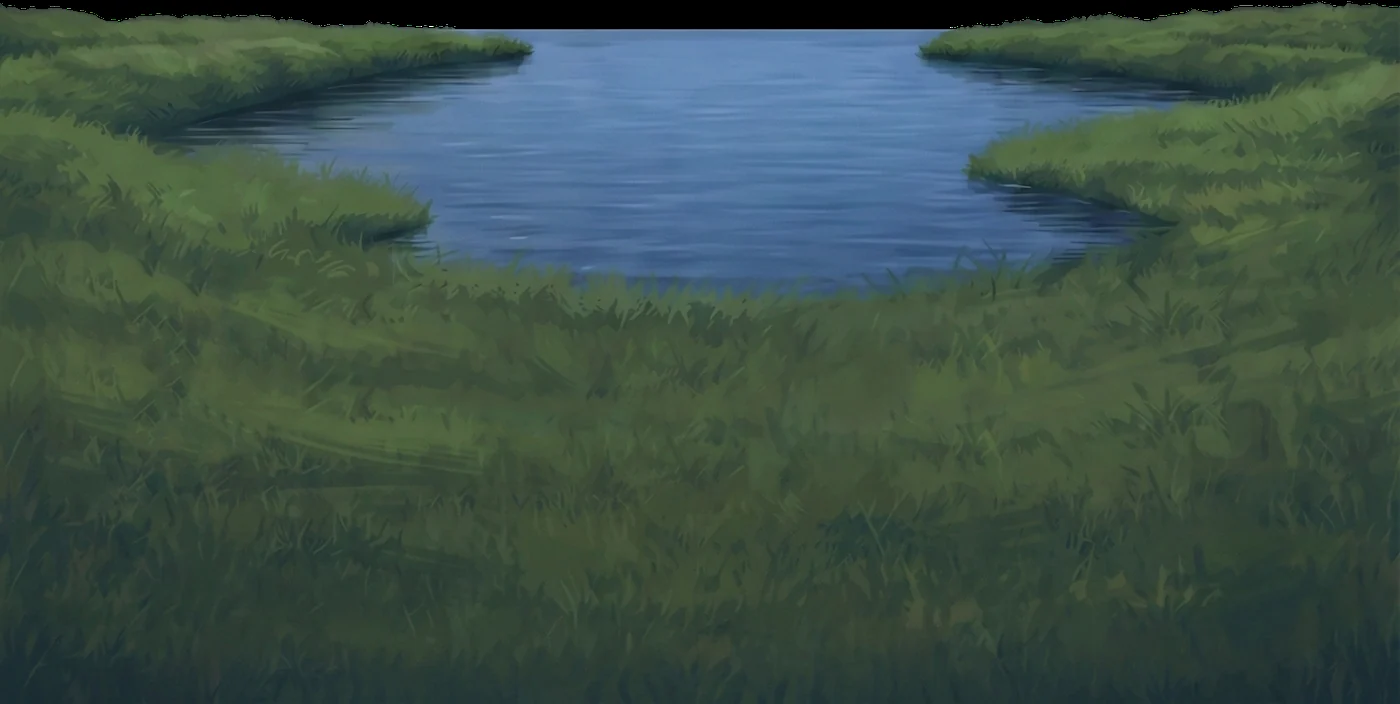
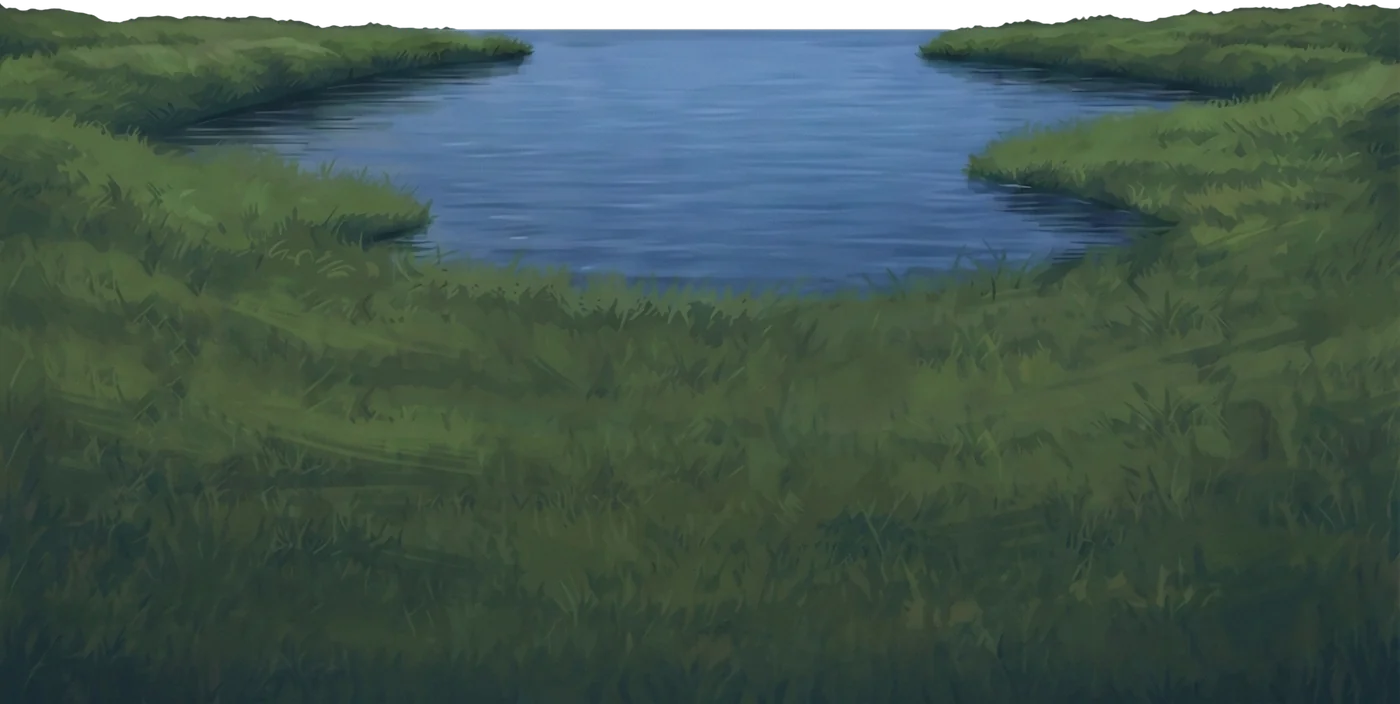
Simplify the sky hero and fix the moon's course
Drop the dotted sun path and draw the sun as a plain gradient disc again,
keep the Terrain artwork's own transparency instead of a black band, and
grade it with a multiply tint rather than a foggy overlay. The moon now
takes its horizontal position from the rise and set that bracket the
moment, so it crosses the sky instead of only rising and falling.

Generated by Mistral Vibe.

Changed region(s): [[0.0, 0.0, 1.0, 0.0625]]

diff --git a/asuninyourpocket/index.html b/asuninyourpocket/index.html
@@ -21,7 +21,6 @@
 <link href="../favicon.ico" rel="shortcut icon"/>
 <meta content="https://www.mirloapps.es/asuninyourpocket/sun.webp" property="og:image"/>
 <meta content="https://www.mirloapps.es/asuninyourpocket/sun.webp" name="twitter:image"/>
-<link rel="preload" as="image" href="sun-real.webp">
 <link rel="preload" as="image" href="moon-real.webp">
 <link rel="preload" as="image" href="terrain.webp">
 <link rel="preconnect" href="https://fonts.googleapis.com">
@@ -1637,7 +1636,6 @@
                 return list;
             }
 
-            var sunImage = new Image();
             var moonImage = new Image();
             var terrainImage = new Image();
             var imagesReady = false;
@@ -1702,7 +1700,7 @@
             }
 
             function loadBodies(repaint) {
-                var pending = 3;
+                var pending = 2;
                 function ready() {
                     pending -= 1;
                     if (pending === 0) {
@@ -1710,19 +1708,50 @@
                         repaint();
                     }
                 }
-                sunImage.onload = ready;
-                sunImage.onerror = ready;
                 moonImage.onload = ready;
                 moonImage.onerror = ready;
                 terrainImage.onload = ready;
                 terrainImage.onerror = ready;
-                sunImage.src = 'sun-real.webp';
                 moonImage.src = 'moon-real.webp';
                 terrainImage.src = 'terrain.webp';
             }
 
             function azimuthX(az, w) {
                 return w * (1 - (((az + 180) % 360) / 360));
+            }
+
+            var moonArcCache = {};
+
+            function moonArc(date, lat, lon) {
+                var key = [lat.toFixed(2), lon.toFixed(2), date.getFullYear(), date.getMonth(), date.getDate()].join(',');
+                if (moonArcCache[key]) return moonArcCache[key];
+
+                var step = 10 * 60000;
+                var ridge = -0.3;
+                var rise = null;
+                var set = null;
+                var now = new Date(date.getTime()).getTime();
+                var alt = moonPosition(new Date(now), lat, lon).alt;
+
+                var previous = alt;
+                for (var back = 1; back <= 180 && rise === null; back++) {
+                    var earlier = moonPosition(new Date(now - back * step), lat, lon).alt;
+                    if (earlier < ridge && previous >= ridge) rise = new Date(now - back * step);
+                    previous = earlier;
+                }
+
+                previous = alt;
+                for (var ahead = 1; ahead <= 180 && set === null; ahead++) {
+                    var later = moonPosition(new Date(now + ahead * step), lat, lon).alt;
+                    if (previous >= ridge && later < ridge) set = new Date(now + ahead * step);
+                    previous = later;
+                }
+
+                if (rise && !set) set = new Date(rise.getTime() + 12.4 * 3600000);
+                if (!rise && set) rise = new Date(set.getTime() - 12.4 * 3600000);
+
+                moonArcCache[key] = { rise: rise, set: set };
+                return moonArcCache[key];
             }
 
             function pathX(date, rise, set, w, az, spread) {
@@ -1785,38 +1814,31 @@
                     );
 
                     var height = h - topY;
-                    var night = Math.max(0, Math.min(1, (2.5 - sun.alt) / 10));
-                    var day = Math.max(0, Math.min(1, (sun.alt + 2) / 12));
+                    var shade = Math.max(0, Math.min(1, (8 - sun.alt) / 16));
+                    var grade = mix([252, 247, 238], [24, 32, 56], shade);
                     var warm = Math.max(0, Math.min(1, 1 - Math.abs(sun.alt - 0.5) / 8));
 
-                    g.globalCompositeOperation = 'source-atop';
-
-                    var washAlpha = (0.34 + 0.3 * (1 - day)).toFixed(3);
-                    var wash = g.createLinearGradient(0, topY, 0, h);
-                    wash.addColorStop(0, rgb(colors.top, washAlpha));
-                    wash.addColorStop(1, rgb(colors.bottom, washAlpha));
-                    g.fillStyle = wash;
-                    g.fillRect(0, topY, w, height);
-
-                    g.fillStyle = 'rgba(4, 8, 18, ' + (0.34 * night).toFixed(3) + ')';
+                    g.globalCompositeOperation = 'multiply';
+                    g.fillStyle = rgb(grade);
                     g.fillRect(0, topY, w, height);
 
                     if (warm > 0.01) {
-                        var lit = g.createLinearGradient(0, topY, 0, topY + height * 0.7);
-                        lit.addColorStop(0, 'rgba(255, 172, 108, ' + (0.3 * warm).toFixed(3) + ')');
-                        lit.addColorStop(1, 'rgba(255, 172, 108, 0)');
+                        g.globalCompositeOperation = 'source-atop';
+                        var lit = g.createLinearGradient(0, topY, 0, topY + height * 0.45);
+                        lit.addColorStop(0, 'rgba(255, 176, 116, ' + (0.16 * warm).toFixed(3) + ')');
+                        lit.addColorStop(1, 'rgba(255, 176, 116, 0)');
                         g.fillStyle = lit;
                         g.fillRect(0, topY, w, height);
                     }
 
-                    var fade = Math.max(10, height * 0.34);
-                    g.globalCompositeOperation = 'destination-out';
-                    var feather = g.createLinearGradient(0, topY, 0, topY + fade);
-                    feather.addColorStop(0, 'rgba(0, 0, 0, 0.6)');
-                    feather.addColorStop(0.45, 'rgba(0, 0, 0, 0.12)');
-                    feather.addColorStop(1, 'rgba(0, 0, 0, 0)');
-                    g.fillStyle = feather;
-                    g.fillRect(0, topY, w, fade);
+                    g.globalCompositeOperation = 'destination-in';
+                    g.drawImage(
+                        terrainImage,
+                        (w - terrainImage.naturalWidth * scale) / 2,
+                        topY,
+                        terrainImage.naturalWidth * scale,
+                        terrainImage.naturalHeight * scale
+                    );
 
                     g.globalCompositeOperation = 'source-over';
                     groundCache.key = key;
@@ -1895,31 +1917,10 @@
                     }
                 }
 
-                if (events && events.sunrise && events.sunset && sun.alt > -10) {
-                    var span = events.sunset.getTime() - events.sunrise.getTime();
-                    ctx.beginPath();
-                    for (var m = 0; m <= 96; m++) {
-                        var t = new Date(events.sunrise.getTime() + (span * m) / 96);
-                        var state = sunPosition(t, spot.lat, spot.lon);
-                        var px = pathX(t, events.sunrise, events.sunset, w, state.az, spread);
-                        var py = altitudeY(state.alt, h, horizonY);
-                        if (m === 0) {
-                            ctx.moveTo(px, py);
-                        } else {
-                            ctx.lineTo(px, py);
-                        }
-                    }
-                    ctx.strokeStyle = 'rgba(255,255,255,' + (0.06 + 0.18 * Math.max(0, Math.min(1, (sun.alt + 10) / 18))).toFixed(3) + ')';
-                    ctx.lineWidth = 1;
-                    ctx.setLineDash([2, 6]);
-                    ctx.stroke();
-                    ctx.setLineDash([]);
-                }
-
                 if (sun.alt > -8) {
                     var sunY = altitudeY(sun.alt, h, horizonY);
-                    var radius = Math.min(w, h) * 0.028;
-                    var glowRadius = radius * (sun.alt > 8 ? 3.6 : 5.2);
+                    var radius = Math.min(w, h) * (0.024 + 0.006 * Math.max(0, Math.min(1, (sun.alt + 4) / 12)));
+                    var glowRadius = radius * (sun.alt > 8 ? 4.6 : 6.4);
                     var glow = ctx.createRadialGradient(sunX, sunY, radius * 0.2, sunX, sunY, glowRadius);
                     glow.addColorStop(0, sun.alt > 8 ? 'rgba(255,246,214,0.95)' : 'rgba(255,214,150,0.95)');
                     glow.addColorStop(0.28, 'rgba(255,196,124,0.34)');
@@ -1929,29 +1930,23 @@
                     ctx.arc(sunX, sunY, glowRadius, 0, Math.PI * 2);
                     ctx.fill();
 
-                    if (sun.alt > 1.2) {
-                        var fade = Math.max(0, Math.min(1, (sun.alt - 1.2) / 3.2));
-                        if (imagesReady) {
-                            var discSize = radius * 4.2;
-                            ctx.globalAlpha = 0.95 * fade;
-                            ctx.drawImage(sunImage, sunX - discSize / 2, sunY - discSize / 2, discSize, discSize);
-                            ctx.globalAlpha = 1;
-                        } else {
-                            var disc = ctx.createRadialGradient(sunX, sunY - radius * 0.3, radius * 0.1, sunX, sunY, radius);
-                            disc.addColorStop(0, '#fffdf3');
-                            disc.addColorStop(1, sun.alt > 6 ? '#ffe6ab' : '#ffc06a');
-                            ctx.fillStyle = disc;
-                            ctx.beginPath();
-                            ctx.arc(sunX, sunY, radius, 0, Math.PI * 2);
-                            ctx.fill();
-                        }
+                    if (sun.alt > -1.5) {
+                        var disc = ctx.createRadialGradient(sunX, sunY - radius * 0.3, radius * 0.1, sunX, sunY, radius);
+                        disc.addColorStop(0, '#fffdf3');
+                        disc.addColorStop(0.7, sun.alt > 6 ? '#fff4d2' : '#ffdfa4');
+                        disc.addColorStop(1, sun.alt > 6 ? '#ffe6ab' : '#ffc06a');
+                        ctx.fillStyle = disc;
+                        ctx.beginPath();
+                        ctx.arc(sunX, sunY, radius, 0, Math.PI * 2);
+                        ctx.fill();
                     }
                 }
 
                 var daylight = sun.alt > -0.833;
 
                 if (imagesReady && moon.alt > 0.5 && sun.alt < 16 && phase.illum > 0.02) {
-                    var moonX = pathX(date, events && events.moonrise, events && events.moonset, w, moon.az, spread);
+                    var arc = moonArc(date, spot.lat, spot.lon);
+                    var moonX = pathX(date, arc.rise, arc.set, w, moon.az, spread);
                     var moonY = altitudeY(moon.alt, h, horizonY);
                     var moonSize = Math.min(w, h) * 0.036;
                     var moonGlow = (0.05 + 0.25 * phase.illum) * (daylight ? 0.35 : 0.8);
